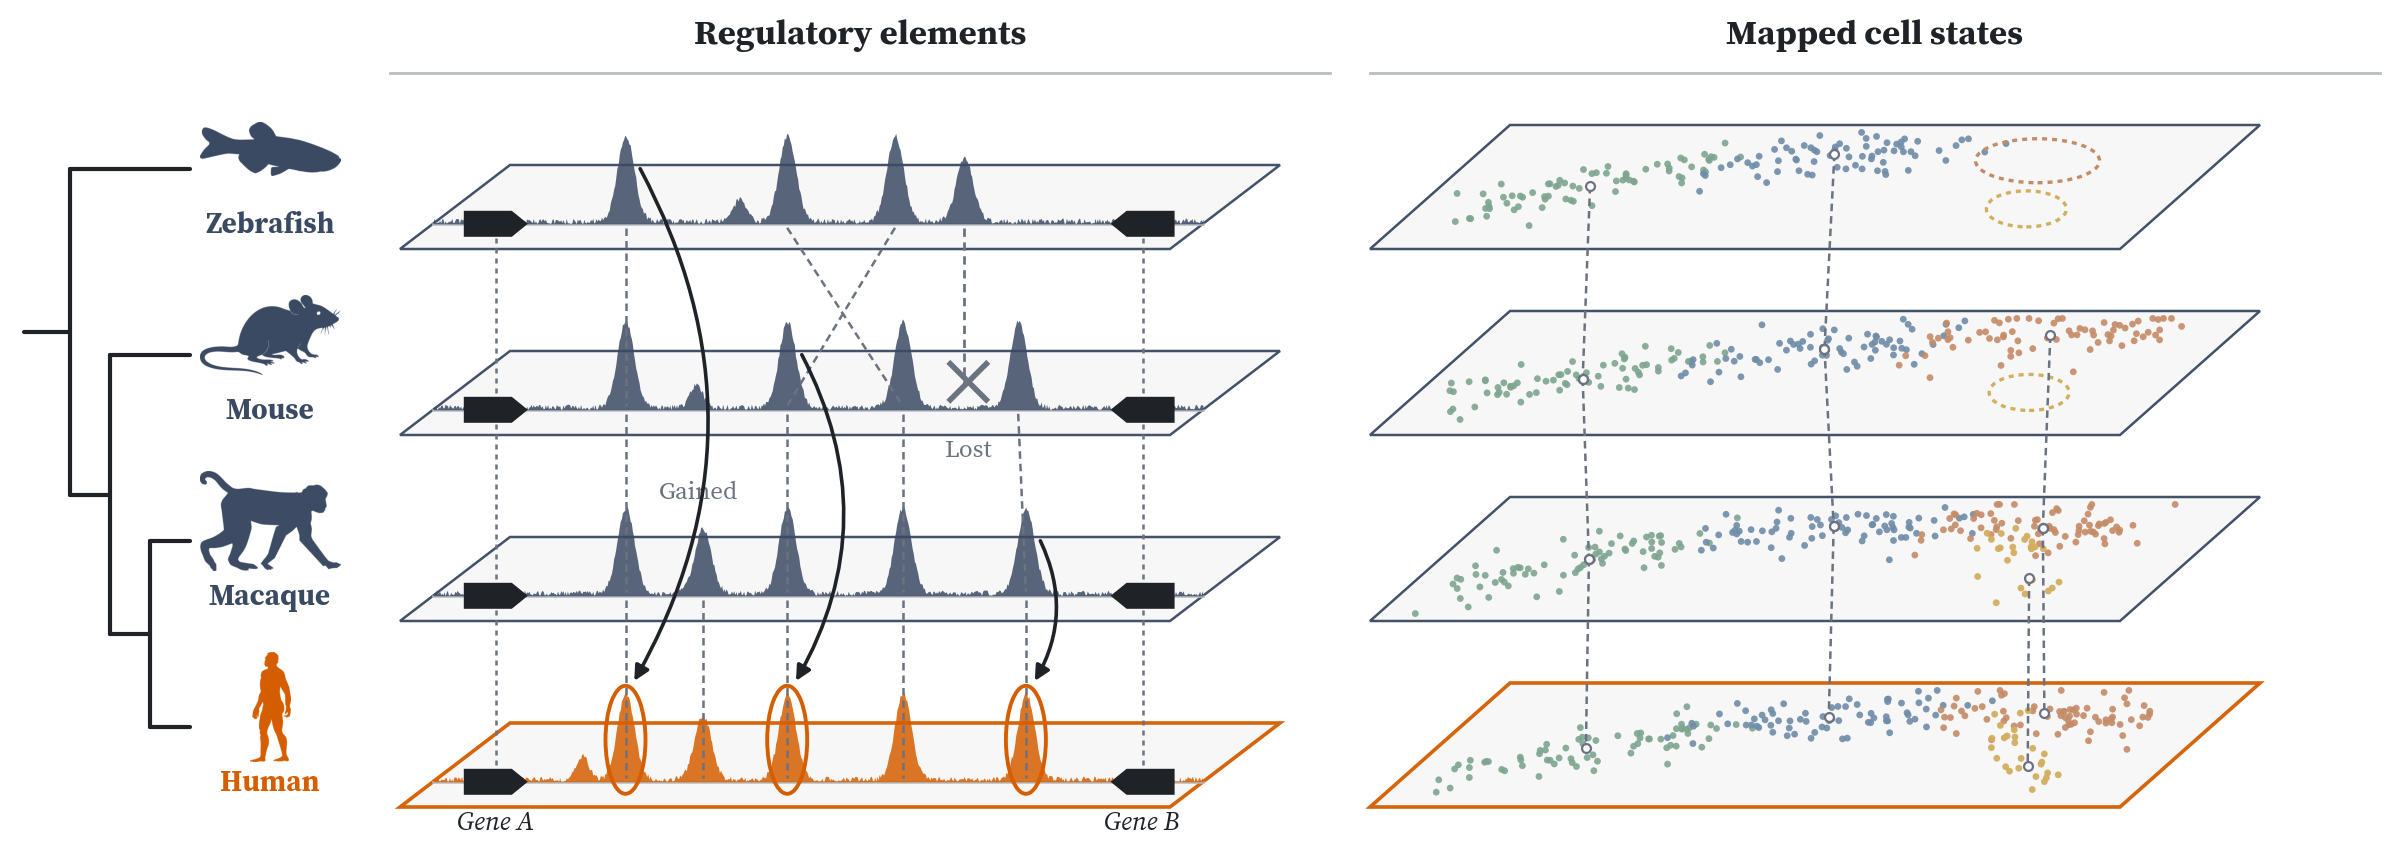
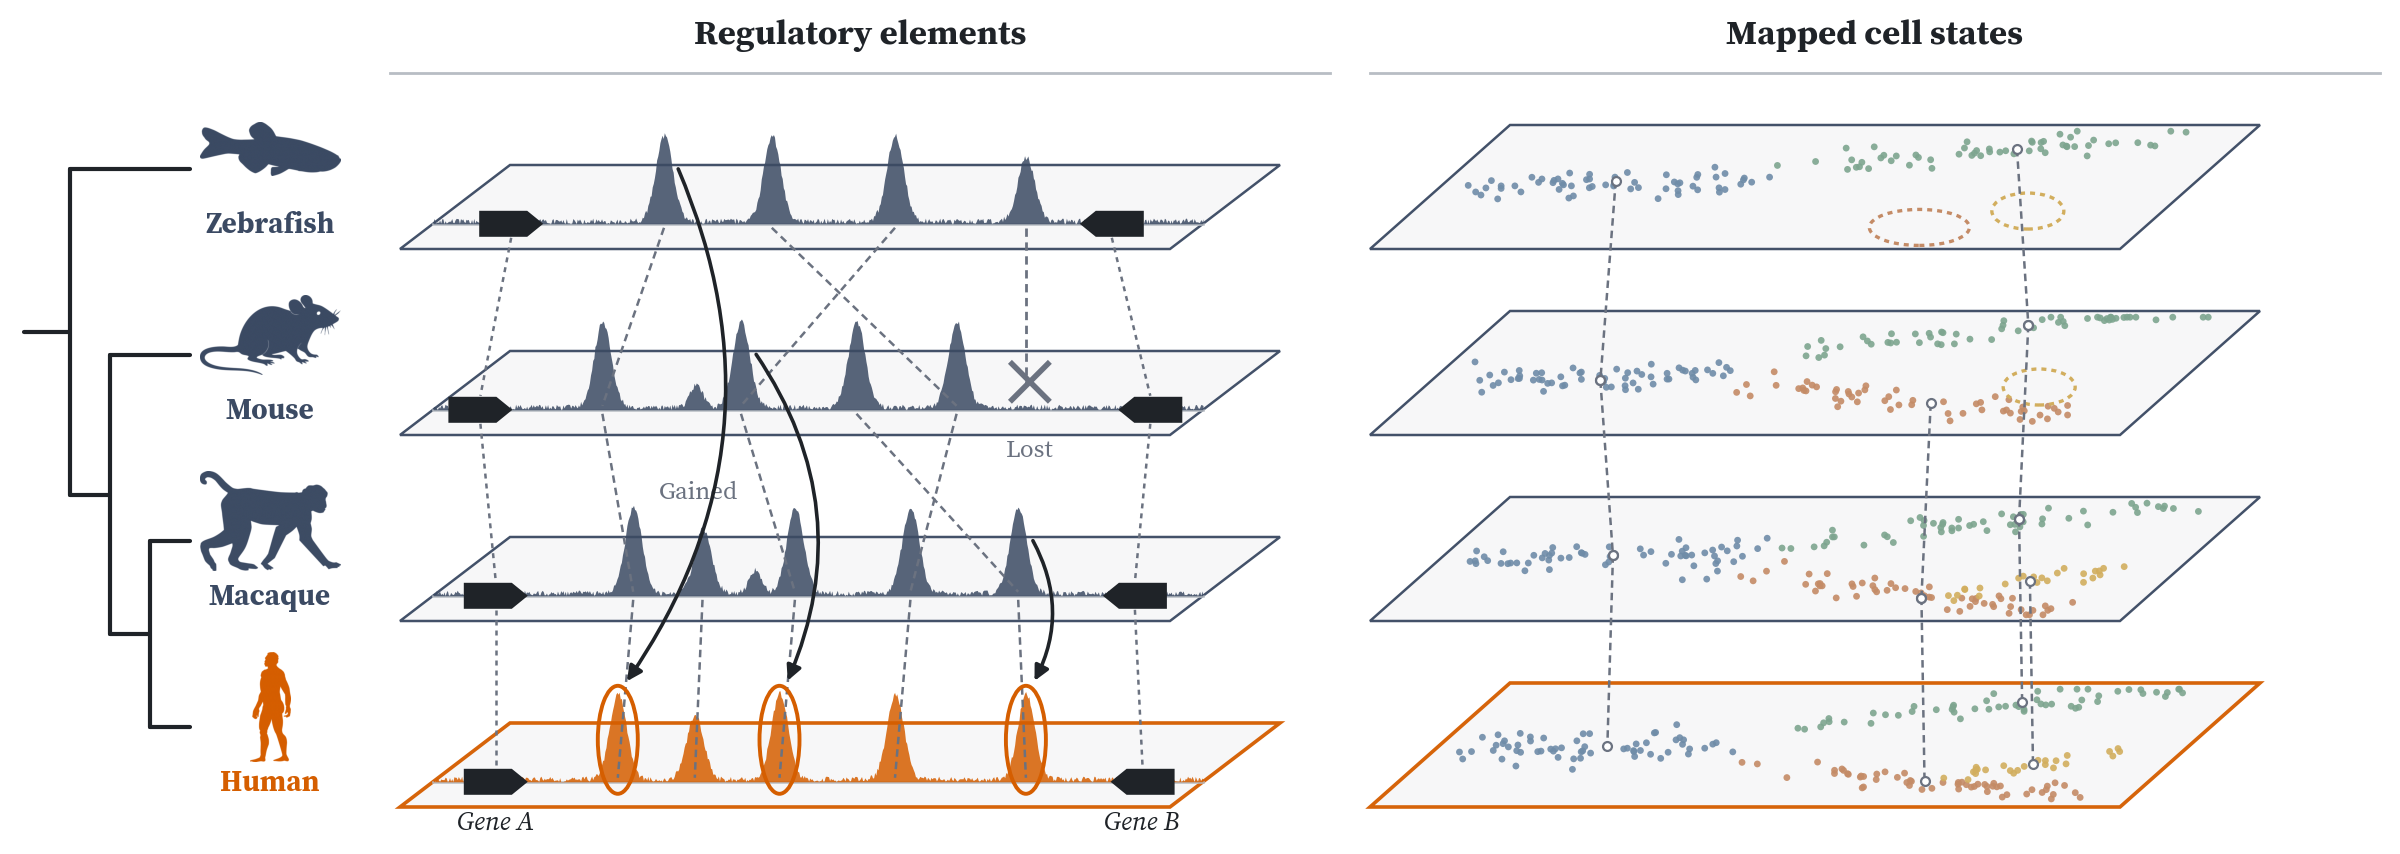
Cell states fork from blue into green and red; alignment with drift, an inversion and a moved element

diff --git a/bin/make_research_art.py b/bin/make_research_art.py
@@ -480,17 +480,18 @@ def draw_plane(P, k, key, z):
 # ---------------- left: a signal track on each plane ----------------
 # Regulatory elements turn over between species. Each named element sits at its own position in each
 # species, and matching elements are linked plane to plane, so rearrangements show as crossing links:
-# the alignment is mostly collinear, with one local inversion (E2 and E3 swapped in zebrafish). Z is a
+# the alignment is broadly collinear, with drift in spacing, one local inversion (E2 and E3 swapped in
+# zebrafish) and one moved element (E4 sits before E3 in mouse). Z is a
 # zebrafish element that is lost in mammals (no human counterpart, a cross), and P is a primate
 # element gained in macaque and human (no link reaches it from mouse).
 POS = {
-    "zebrafish": {"E1": 0.25, "E3": 0.46, "E2": 0.6, "Z": 0.69},
-    "mouse":     {"E1": 0.25, "E2": 0.46, "E3": 0.61, "E4": 0.76},
-    "macaque":   {"E1": 0.25, "P": 0.35, "E2": 0.46, "E3": 0.61, "E4": 0.77},
-    "human":     {"E1": 0.25, "P": 0.35, "E2": 0.46, "E3": 0.61, "E4": 0.77},
+    "zebrafish": {"E1": 0.3, "E3": 0.44, "E2": 0.6, "Z": 0.77},
+    "mouse":     {"E1": 0.22, "E2": 0.4, "E4": 0.55, "E3": 0.68},
+    "macaque":   {"E1": 0.26, "P": 0.35, "E2": 0.47, "E3": 0.62, "E4": 0.76},
+    "human":     {"E1": 0.24, "P": 0.34, "E2": 0.45, "E3": 0.6, "E4": 0.77},
 }
-GA = {"zebrafish": 0.04, "mouse": 0.04, "macaque": 0.04, "human": 0.04}      # gene A, left flank
-GB = {"zebrafish": 0.88, "mouse": 0.88, "macaque": 0.88, "human": 0.88}      # gene B, reverse strand
+GA = {"zebrafish": 0.06, "mouse": 0.02, "macaque": 0.04, "human": 0.04}      # gene A, left flank
+GB = {"zebrafish": 0.84, "mouse": 0.89, "macaque": 0.87, "human": 0.88}      # gene B, reverse strand
 TRACK_B = 0.3                                    # the track runs along the plane at this depth
 PEAK = 0.45
 aa = np.linspace(0.0, 1.0, 700)
@@ -553,52 +554,45 @@ header(ax, 1.95, 6.65, H3 - 0.18, "Regulatory elements")
 # are drawn as dotted outlines where the state would sit. Every species is mapped to human.
 from shapely.geometry import MultiPoint
 
-SCOL = [IDENT_M[1], IDENT_M[0], IDENT_M[2], IDENT_M[3]]      # state 1 green, 2 blue, 3 red, 4 yellow
-# each species' embedding is a trajectory 1 -> 2 -> 3 with a small late branch into 4; the curve bends
-# a little differently in each species, as independent embeddings do
-WARP = {"zebrafish": (0.1, -0.12), "mouse": (-0.08, 0.1), "macaque": (0.06, -0.05), "human": (0.0, 0.0)}
+SCOL = [IDENT_M[1], IDENT_M[0], IDENT_M[2], IDENT_M[3]]      # 0 green, 1 blue, 2 red, 3 yellow
+# each species' embedding is a blue progenitor trunk that forks into green and red, with a small late
+# branch from red into yellow; the curves bend a little differently in each species
+WARP = {"zebrafish": (0.06, -0.05), "mouse": (-0.05, 0.06), "macaque": (0.04, -0.03), "human": (0.0, 0.0)}
 MISSING = {"zebrafish": {2, 3}, "mouse": {3}, "macaque": set(), "human": set()}
+FORK = (0.4, 0.52)
 
 
-def trunk(t, key):
+def path(kind, t, key):
     bend, tilt = WARP[key]
-    a = 0.06 + 0.84 * t
-    b = 0.3 + 0.42 * t + (0.22 + bend) * np.sin(np.pi * t) + tilt * t
-    return a, b
-
-
-def branch(u, key):
-    a0, b0 = trunk(0.72, key)
-    return a0 + 0.2 * u, b0 - 0.62 * u ** 1.2
+    if kind == "trunk":                                   # blue, left to the fork
+        return 0.05 + (FORK[0] - 0.05) * t, 0.46 + (FORK[1] - 0.46) * t + bend * np.sin(np.pi * t)
+    if kind == "up":                                      # green, up and right from the fork
+        return FORK[0] + 0.52 * t, FORK[1] + (0.44 + tilt) * t ** 0.6
+    if kind == "down":                                    # red, down and right from the fork
+        return FORK[0] + 0.5 * t, FORK[1] - (0.42 - tilt) * t ** 0.6
+    a0, b0 = path("down", 0.6, key)                       # yellow, late off red
+    return a0 + 0.2 * t, b0 + 0.22 * t
 
 
 def spread(a, b, sa, sb):
-    return np.clip(a + rs.normal(0, sa, np.shape(a)), 0.03, 0.97), np.clip(b + rs.normal(0, sb, np.shape(b)), 0.06, 0.94)
+    return np.clip(a + rs.normal(0, sa, np.shape(a)), 0.03, 0.97), np.clip(b + rs.normal(0, sb, np.shape(b)), 0.05, 0.95)
 
 
+SEGS = [(1, "trunk", 0.0, 1.0, 60), (0, "up", 0.08, 1.0, 55), (2, "down", 0.08, 1.0, 55), (3, "late", 0.15, 1.0, 24)]
 CENT = {}
 for k, (lab, key) in enumerate(SPECIES):
     draw_plane(Rk, k, key, 9 - k)
-    segs = [(0, 0.0, 0.33), (1, 0.33, 0.66), (2, 0.66, 1.0)]
-    for j, t0, t1 in segs:
-        cen = Rk(k, *trunk((t0 + t1) / 2, key))
+    for j, kind, t0, t1, n in SEGS:
+        cen = Rk(k, *path(kind, 0.6 if kind != "trunk" else 0.5, key))
         CENT[(key, j)] = cen
         if j in MISSING[key]:
-            ax.add_patch(Ellipse(cen, 0.62, 0.22, fc="none", ec=SCOL[j], lw=1.2, ls=(0, (1.5, 1.5)), zorder=12))
+            ax.add_patch(Ellipse(cen, 0.5 if j == 2 else 0.36, 0.18, fc="none", ec=SCOL[j], lw=1.2,
+                                 ls=(0, (1.5, 1.5)), zorder=12))
             continue
-        t = rs.uniform(t0, t1, 70)
-        ua, ub = spread(*trunk(t, key), 0.025, 0.1)
+        t = rs.uniform(t0, t1, n)
+        ua, ub = spread(*path(kind, t, key), 0.02, 0.06 if kind == "trunk" else 0.045)
         pts = np.array([Rk(k, u, v) for u, v in zip(ua, ub)])
         ax.scatter(pts[:, 0], pts[:, 1], s=6, color=SCOL[j], edgecolors="none", alpha=0.9, zorder=11)
-    cen = Rk(k, *branch(0.75, key))
-    CENT[(key, 3)] = cen
-    if 3 in MISSING[key]:
-        ax.add_patch(Ellipse(cen, 0.4, 0.18, fc="none", ec=SCOL[3], lw=1.2, ls=(0, (1.5, 1.5)), zorder=12))
-    else:
-        u = rs.uniform(0.15, 1.0, 26)
-        ua, ub = spread(*branch(u, key), 0.018, 0.06)
-        pts = np.array([Rk(k, x, y) for x, y in zip(ua, ub)])
-        ax.scatter(pts[:, 0], pts[:, 1], s=6, color=SCOL[3], edgecolors="none", alpha=0.95, zorder=11)
 # each plane is linked to the next, down to human, state by state
 ORDER = [sp[1] for sp in SPECIES]
 for up, dn in zip(ORDER, ORDER[1:]):
